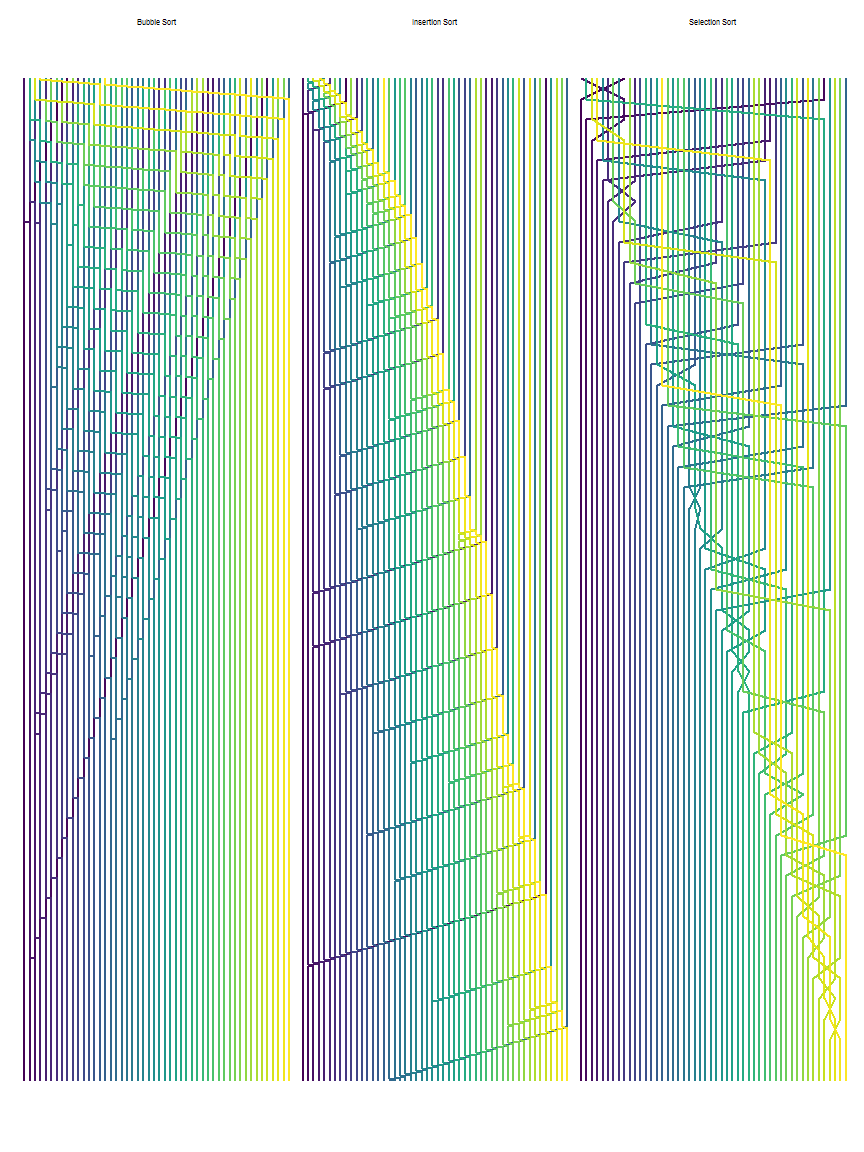
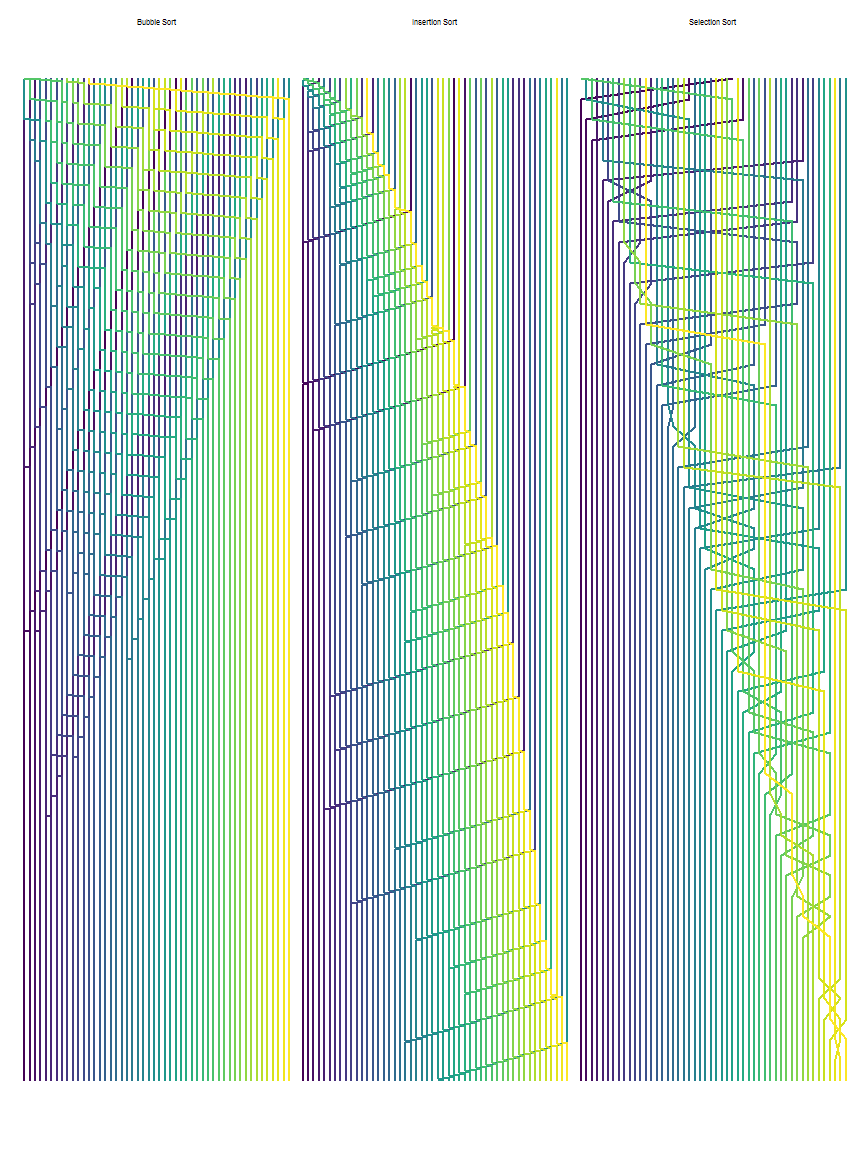
updating sort post

diff --git a/_posts/2015-09-25-visualizing-sort-algorithms-with-ggplot.md b/_posts/2015-09-25-visualizing-sort-algorithms-with-ggplot.md
@@ -175,10 +175,10 @@ It works, so we can now scroll!
 
 
 ```r
-sample(seq(70)) %>% 
+sample(seq(50)) %>% 
   insertion_sort_steps() %>% 
   sort_matix_to_df() %>% 
-  plot_sort(size = 2.2)
+  plot_sort(size = 2.0)
 ```
 
 <img src="/images/visualizing-sort-algorithms-with-ggplot/unnamed-chunk-8-1.png" title="plot of chunk unnamed-chunk-8" alt="plot of chunk unnamed-chunk-8" style="display: block; margin: auto;" />
@@ -266,12 +266,12 @@ head(big_df)
 
 | step|position | element|sort           |
 |----:|:--------|-------:|:--------------|
-|    1|1        |       3|Selection Sort |
-|    1|2        |      31|Selection Sort |
-|    1|3        |      47|Selection Sort |
-|    1|4        |      49|Selection Sort |
-|    1|5        |      24|Selection Sort |
-|    1|6        |       7|Selection Sort |
+|    1|1        |      37|Selection Sort |
+|    1|2        |      25|Selection Sort |
+|    1|3        |      36|Selection Sort |
+|    1|4        |       4|Selection Sort |
+|    1|5        |      21|Selection Sort |
+|    1|6        |      11|Selection Sort |
 
 ```r
 big_df %>%
@@ -284,7 +284,7 @@ big_df %>%
 |sort           |  steps|
 |:--------------|------:|
 |Bubble Sort    | 120100|
-|Insertion Sort |  30700|
+|Insertion Sort |  31500|
 |Selection Sort |   2500|
 
 ```r
@@ -300,7 +300,7 @@ ggplot(big_df,
 
 <img src="/images/visualizing-sort-algorithms-with-ggplot/unnamed-chunk-13-1.png" title="plot of chunk unnamed-chunk-13" alt="plot of chunk unnamed-chunk-13" style="display: block; margin: auto;" />
 
-Or we can plot vertical using the [viridis package](https://github.com/sjmgarnier/viridis): 
+Or we can plot vertically using the viridis palette from the [viridis package](https://github.com/sjmgarnier/viridis) : 
 
 
 ```r
